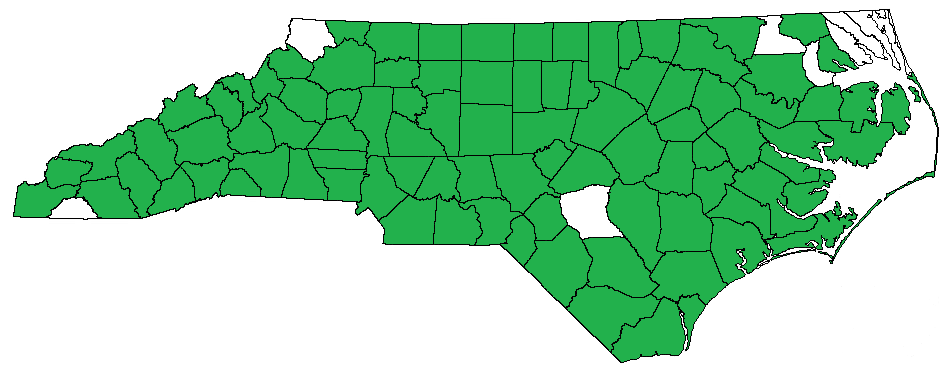
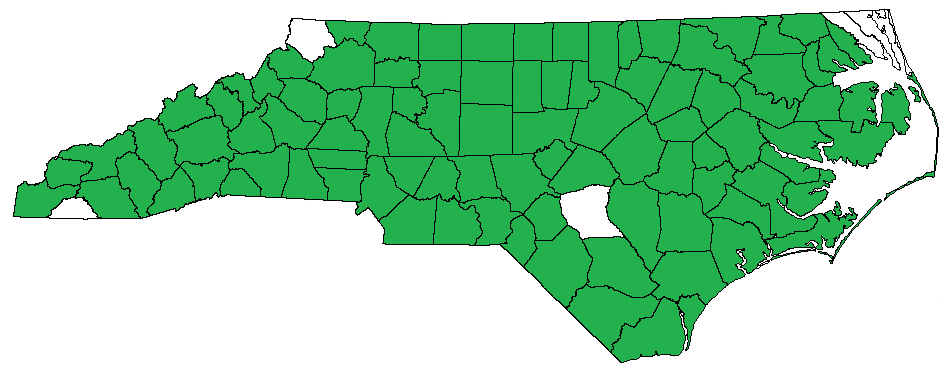
camping and bbq december 2024

Changed region(s): [[0.7962, 0.0294, 0.9187, 0.2353]]

diff --git a/bbq/bbq-pics.html b/bbq/bbq-pics.html
@@ -505,6 +505,26 @@
 </button></center>
 
 <br>
+<p><b>Chowan County</b></p>
+<p>Old Colony Smokehouse - Edenton</p>
+<p><a id="oldcolony"></p>
+<center><img id="image376" img-src="https://s3.us-east-1.wasabisys.com/cwclaib-website/NC-State-Page/bbq/Old Colony Smokehouse, Edenton/20241214_124422.jpg" width="800"></img></center>
+<center><button type="button"
+        onclick="show( image376, this )" id="btnID">
+        Show Image
+</button></center>
+<center><img id="image377" img-src="https://s3.us-east-1.wasabisys.com/cwclaib-website/NC-State-Page/bbq/Old Colony Smokehouse, Edenton/20241214_120934.jpg" width="800"></img></center>
+<center><button type="button"
+        onclick="show( image377, this )" id="btnID">
+        Show Image
+</button></center>
+<center><img id="image378" img-src="https://s3.us-east-1.wasabisys.com/cwclaib-website/NC-State-Page/bbq/Old Colony Smokehouse, Edenton/20241214_122404.jpg" width="800"></img></center>
+<center><button type="button"
+        onclick="show( image378, this )" id="btnID">
+        Show Image
+</button></center>
+
+<br>
 <p><b>Cleveland County</b></p>
 <p>Red Bridge's BBQ - Shelby</p>
 <p><a id="Red-Bridge"></p>
@@ -994,7 +1014,7 @@
 
 <br>
 <p><b>Haywood County</b></p>
-<p>My Wedding Reception</p>
+<p>My Wedding Reception - Waynesville</p>
 <p><a id="wedding"></p>
 <center><img id="image369" img-src="https://s3.us-east-1.wasabisys.com/cwclaib-website/NC-State-Page/bbq/Wedding, Waynesville/20240921_090731.jpg" width="800"></img></center>
 <center><button type="button"
@@ -1014,6 +1034,26 @@
 <center><img id="image372" img-src="https://s3.us-east-1.wasabisys.com/cwclaib-website/NC-State-Page/bbq/Wedding, Waynesville/PXL_20240921_130610594.jpg" width="800"></img></center>
 <center><button type="button"
         onclick="show( image372, this )" id="btnID">
+        Show Image
+</button></center>
+
+<br>
+<p><b>Hertford County</b></p>
+<p>Otto BBQ &amp; Grill - Ahoskie</p>
+<p><a id="otto"></p>
+<center><img id="image373" img-src="https://s3.us-east-1.wasabisys.com/cwclaib-website/NC-State-Page/bbq/Otto BBQ, Ahoskie/20241213_184655.jpg" width="800"></img></center>
+<center><button type="button"
+        onclick="show( image373, this )" id="btnID">
+        Show Image
+</button></center>
+<center><img id="image374" img-src="https://s3.us-east-1.wasabisys.com/cwclaib-website/NC-State-Page/bbq/Otto BBQ, Ahoskie/20241213_185341.jpg" width="800"></img></center>
+<center><button type="button"
+        onclick="show( image374, this )" id="btnID">
+        Show Image
+</button></center>
+<center><img id="image375" img-src="https://s3.us-east-1.wasabisys.com/cwclaib-website/NC-State-Page/bbq/Otto BBQ, Ahoskie/20241213_185727.jpg" width="800"></img></center>
+<center><button type="button"
+        onclick="show( image375, this )" id="btnID">
         Show Image
 </button></center>
 
@@ -1686,6 +1726,26 @@
 <center><img id="image301" img-src="https://s3.us-east-1.wasabisys.com/cwclaib-website/NC-State-Page/bbq/Chubby's Southern BBQ, Merritt/20231111_175303.jpg" width="800"></img></center>
 <center><button type="button"
         onclick="show( image301, this )" id="btnID">
+        Show Image
+</button></center>
+
+<br>
+<p><b>Pasquotank County</b></p>
+<p>Currituck BBQ Company - Elizabeth City</p>
+<p><a id="currituck"></p>
+<center><img id="image379" img-src="https://s3.us-east-1.wasabisys.com/cwclaib-website/NC-State-Page/bbq/Currituck BBQ, Elizabeth City/20241214_172054.jpg" width="800"></img></center>
+<center><button type="button"
+        onclick="show( image379, this )" id="btnID">
+        Show Image
+</button></center>
+<center><img id="image380" img-src="https://s3.us-east-1.wasabisys.com/cwclaib-website/NC-State-Page/bbq/Currituck BBQ, Elizabeth City/20241214_172259.jpg" width="800"></img></center>
+<center><button type="button"
+        onclick="show( image380, this )" id="btnID">
+        Show Image
+</button></center>
+<center><img id="image381" img-src="https://s3.us-east-1.wasabisys.com/cwclaib-website/NC-State-Page/bbq/Currituck BBQ, Elizabeth City/20241214_172503.jpg" width="800"></img></center>
+<center><button type="button"
+        onclick="show( image381, this )" id="btnID">
         Show Image
 </button></center>
 
@@ -2528,7 +2588,7 @@
 
 (see also: <a href="#highfalls">Highfalls Fiddlers Convention</a>)
 
-<center><p><i>Last updated: 10/1/2024</i></p></center>
+<center><p><i>Last updated: 12/15/2024</i></p></center>
 
 <script>
 	function show( img, btn ) {

diff --git a/bbq/index.html b/bbq/index.html
@@ -58,10 +58,10 @@
 <br>
 <center>
 	<h2>Current County Counter</h2>
-	<h3><span style="color:red">92</span> / 100</h3>
-	<h3>123 different in-state BBQ joints</h3>
+	<h3><span style="color:red">95</span> / 100</h3>
+	<h3>126 different in-state BBQ joints</h3>
 	<h3>11 annual BBQ events</h3>
-	<p>(last updated 10/1/2024)</p>
+	<p>(last updated 12/15/2024)</p>
 </center>
 <br>
 
@@ -162,6 +162,11 @@
 <ul>
 	<li>Herb's BBQ - Murphy (<i><span style="color:red">closed March 2023</span></i>) - 6/10/2021 - <i>former NCBS BBQ Trail</i>; <i>former True 'Cue NC</i></li>
 	<!-- https://www.facebook.com/herbspitbbq/posts/pfbid02REJKVHbR8jijztTiYTPLMmADUNMSc47PjrFJ3RbGwNBYEqtG86W7qj2NFAmuao3Rl -->
+</ul>
+<br>
+<p><b>Chowan County</b></p>
+<ul>
+	<li>Old Colony Smokehouse - Edenton - 12/14/2024 - <i><span class="ncbsbbq">True 'Cue NC</span></i> - <a href="bbq-pics.html#oldcolony">pictures</a></li>
 </ul>
 <br>
 <p><b>Cleveland County</b></p>
@@ -287,6 +292,11 @@
 	<li>Hubba Hubba Smokehouse - Flat Rock - 6/8/2021 - <i><span class="ncbsbbq">NCBS BBQ Trail</span></i>; <i><span class="ncbsbbq">True 'Cue NC</span></i></li>
 </ul>
 <br>
+<p><b>Hertford County</b></p>
+<ul>
+	<li>Otto BBQ &amp; Grill - Ahoskie - 12/13/2024 - <a href="bbq-pics.html#otto">pictures</a></li>
+</ul>
+<br>
 <p><b>Hoke County</b></p>
 <ul>
 	<li>Virgil's Drive-In - Raeford - 8/28/2022 - <a href="bbq-pics.html#Virgils">pictures</a></li>
@@ -409,6 +419,11 @@
 <p><b>Pamlico County</b></p>
 <ul>
 	<li>Chubby's Southern BBQ - Merritt - 11/11/2023 - <a href="bbq-pics.html#chubbys">pictures</a></li>
+</ul>
+<br>
+<p><b>Pasquotank County</b></p>
+<ul>
+	<li>Currituck BBQ Company - Elizabeth City - 12/14/2024 - <a href="bbq-pics.html#currituck">pictures</a></li>
 </ul>
 <br>
 <p><b>Perquimans County</b></p>
@@ -746,6 +761,8 @@
 <p>My next barbecue excursion was a convenient trip to Goldsboro and Wilber's famous barbecue.  Though I had been to Wilber's once before -- back in 2017 under the original ownership -- it was long before I was nearly as entranced as I am now with pork pigs, and did not fully appreciate the restaurant's status.  The trip was convenient this time because the area was about halfway between us and the former owner of my family's newest four-legged friend, Remi.  We met our new dog after a stop in one of the best restaurants in recent memory; Wilber's meat has a delightfully rich, smoky yet salty flavor, and their tangy sauce pairs wonderfully with it.</p>
 
 <p>After the summer of 2024, I began an extended hiatus from eating at many barbeque restaurants.  After not eating at anywhere new for nearly 4 months, I finally managed to cajole my way into a new excursion as a part of my bachelor trip.  We spent a weekend in the mountains revisiting a few of my favorite stops, including the Happy Valley Filling Station and hiking Harper Creek Falls, but also added in a new stop at Butch's Barbeque in Morganton.  I oversauced my own meat by mistake, but the food was otherwise solid, and also affordable.  The next weekend was my wedding, where my competition partner in crime, Holden, catered the event"  Oh yeah, I also tied the knot with my wonderful wife, too.  More work on the cooker is pending after an eventful drive back where the lid popped open 3 times on the highway.</p>
+
+<p>Afterwards, there was a great lull in my pork consumption.  As has become something of a semi-tradition, I solved this by going on an expedition just ahead of Christmas 2024, leaving Friday evening for Ahoskie's Otto BBQ, which provided me with a solid plate of pork and some excellent sides -- the Brunswick stew was perfect.  After a night camping at Merchants Millpond State Park (and a surprise <a href="https://www.ncparks.gov/news/events/light-millpond-6">drive-through Christmas light display</a>), I woke up early and hiked <a href="../hiking/merchants-mill/lassiter-trail/lassiter-trail.html">Lassiter Trail</a>.  Later that afternoon, I stopped by Edenton's Old Colony Smokehouse.  Keeping with the theme of the hike, the small venue was swamped -- at with good reason.  The smoky, tender meat was well-cooked, and had several bits of cracklin in it, as well as several tasty sauce options.  After exploring Edenton's downtown area, I trekked east to Elizabeth City, where I closed the day with the newest edition of Currituck BBQ Company, where I had some solid, smoky meat.</p>
 
 <center>- - - - - - - - - - -</center>
 

diff --git a/hiking/merchants-mill/lassiter-trail/lassiter-trail.html b/hiking/merchants-mill/lassiter-trail/lassiter-trail.html
@@ -1,0 +1,36 @@
+<!DOCTYPE html>
+<html>
+
+
+<head>
+	<link href="../../style.css" rel="stylesheet" type="text/css" />
+	<link rel="icon" type="image/png" href="../../icon.png">
+	<title>Lassiter Trail - Merchants Millpond State Park</title>
+</head>
+
+<center>
+	<h2>Lassiter Trail - Merchants Millpond State Park</h2>
+</center>
+
+<p>Visited on Saturday, December 14th, 2024.</p>
+
+<p>Do not be fooled by <a href="https://www.alltrails.com/trail/us/north-carolina/lassiter-trail">AllTrails</a>: this hike is not 5.7 miles.  There's a few reasons for that, chief among them the fact that the blazes and signs on the trail differ from the paths shown on the website, with the actual route dipping south for about a half a mile around the canoe campground site.</p>
+
+<p>This lollipop trail starts at the easternmost of the grounds' parking areas; technically, there are two starting points, with the western one offering slightly more views of this park's beautiful swampy environment.  After less than a quarter mile of hiking, you'll cross a wooden walkway and be informed that the loop is five miles; this sign is outdated, as there is a clear and obvious 6 mile marker later on this very path.</p>
+
+<center><image src="https://s3.us-east-1.wasabisys.com/cwclaib-website/NC-State-Page/hiking/merchants-millpond/lassiter/20241214_083229.jpg" width="800"></img></center><br>
+<center><image src="https://s3.us-east-1.wasabisys.com/cwclaib-website/NC-State-Page/hiking/merchants-millpond/lassiter/20241214_084414.jpg" width="800"></img></center><br>
+<center><image src="https://s3.us-east-1.wasabisys.com/cwclaib-website/NC-State-Page/hiking/merchants-millpond/lassiter/20241214_084434.jpg" width="800"></img></center><br>
+<center><image src="https://s3.us-east-1.wasabisys.com/cwclaib-website/NC-State-Page/hiking/merchants-millpond/lassiter/20241214_084718.jpg" width="800"></img></center><br></center>
+
+<p>  I hiked the trail in the clockwise direction, leaving the slight steep portions of the trail for the end.  Much of the hike is pine forests, like the image below.  Around the halfway mark, the trail opens again to more swampy views which are materially similar to those in the first few images; I took a few pictures of it, but none turned out particularly well because of the position of the sun.</p>
+
+<center><image src="https://s3.us-east-1.wasabisys.com/cwclaib-website/NC-State-Page/hiking/merchants-millpond/lassiter/20241214_092002.jpg" width="800"></img></center></center>
+
+
+<p>For a map of the trail, click <a href="https://www.ncparks.gov/maps/merchants-millpond-state-park-map/open">here</a>.</p>
+
+
+
+<center><p><i>Last updated: 1/29/2023</i></p></center>
+</html>

diff --git a/hiking/merchants-mill/bennetts-creek/bennetts-creek.html b/hiking/merchants-mill/bennetts-creek/bennetts-creek.html
@@ -14,7 +14,7 @@
 
 <p>Visited on Saturday, January 28th, 2023 with my girlfriend.</p>
 
-<p>We did this short but interesting loop in the evening, a bit closer to the sunset closing time of the park than we had intended thanks to an extended detour attempting (and failing) to take the Parkers Cable Ferry outside of Como.  We had originally wanted to do Lassiter Trail, but decided to do the shorter trail in order to make it to supper in time.  </p>
+<p>We did this short but interesting loop in the evening, a bit closer to the sunset closing time of the park than we had intended thanks to an extended detour attempting (and failing) to take the Parkers Cable Ferry outside of Como.  We had originally wanted to do <a href="../lassiter-trail/lassiter-trail.html">Lassiter Trail</a>, but decided to do the shorter trail in order to make it to supper in time.  </p>
 
 <p>The trail starts at the boat launch and rental area, which offers a pretty and open view into the surrounding swamp.  From there, the trail dots in and out of marshes and swamps which speckle the park.</p>
 

diff --git a/hiking/index.html b/hiking/index.html
@@ -188,6 +188,7 @@
 <h2>Merchants Millpond State Park</h2>
 <ul>
 	<li><a href="merchants-mill/bennetts-creek/bennetts-creek.html">Bennett's Creek Trail</a></li>
+	<li><a href="merchants-mill/lassiter-trail/lassiter-trail.html">Lassiter Trail</a></li>
 </ul>
 
 <h2>Morrow Mountain State Park</h2>
@@ -317,5 +318,5 @@
 
 
 
-<center><p><i>Last updated: 5/8/2024</i></p></center>
+<center><p><i>Last updated: 12/15/2024</i></p></center>
 </html>
